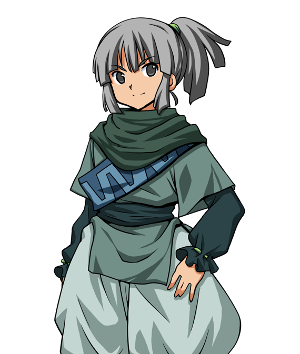
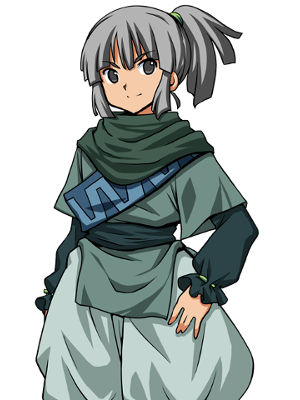
SelectGenderにおいて主人公の画像が出るように改良 yukineco 俊樹のプログラムを勝手にいじくりました 選択したgenderがセーブに反映されるように変更 画像の表示する高さを少し高く調整

diff --git a/src/arcircle/ftsim/state/selectgender/SelectGenderView.java b/src/arcircle/ftsim/state/selectgender/SelectGenderView.java
@@ -17,6 +17,7 @@ public class SelectGenderView implements Renderer {
 	private Image imageMale;
 	private Image imageFemale;
 	private Image flame;
+	private static final String characterPath = "./Stories/Characters";
 
 	public SelectGenderView(SelectGenderModel sgModel, SelectGenderState sgState) {
 		super();
@@ -25,8 +26,8 @@ public class SelectGenderView implements Renderer {
 
 		//稲井が画像ファイルをアップロードしていない？
 		try {
-			imageMale = new Image("./image/genderimage/male.png");
-			imageFemale = new Image("./image/genderimage/female.png");
+			imageMale = new Image(characterPath + "/playerMale/stand.png");
+			imageFemale = new Image(characterPath + "/playerFemale/stand.png");
 			flame = new Image("./image/genderimage/flame.png");
 		} catch (SlickException e) {
 			e.printStackTrace();
@@ -51,22 +52,22 @@ public class SelectGenderView implements Renderer {
 
 		if (sgModel.gender == SelectGenderModel.MALE) {
 			g.drawImage(imageMale, FTSimulationGame.WIDTH / 4
-					- imageGenderWidth / 2, FTSimulationGame.HEIGHT / 3 * 2
+					- imageGenderWidth / 2, FTSimulationGame.HEIGHT / 5 * 3
 					- imageGenderHeight / 2);
 			g.drawImage(imageFemale, FTSimulationGame.WIDTH / 4 * 3
-					- imageGenderWidth / 2, FTSimulationGame.HEIGHT / 3 * 2
+					- imageGenderWidth / 2, FTSimulationGame.HEIGHT / 5 * 3
 					- imageGenderHeight / 2);
 			g.drawImage(flame, FTSimulationGame.WIDTH / 4 - flameWidth / 2,
-					FTSimulationGame.HEIGHT / 3 * 2 - flameHeight / 2);
+					FTSimulationGame.HEIGHT / 5 * 3 - flameHeight / 2);
 		} else if (sgModel.gender == SelectGenderModel.FEMALE) {
 			g.drawImage(imageMale, FTSimulationGame.WIDTH / 4
-					- imageGenderWidth / 2, FTSimulationGame.HEIGHT / 3 * 2
+					- imageGenderWidth / 2, FTSimulationGame.HEIGHT / 5 * 3
 					- imageGenderHeight / 2);
 			g.drawImage(imageFemale, FTSimulationGame.WIDTH / 4 * 3
-					- imageGenderWidth / 2, FTSimulationGame.HEIGHT / 3 * 2
+					- imageGenderWidth / 2, FTSimulationGame.HEIGHT / 5 * 3
 					- imageGenderHeight / 2);
 			g.drawImage(flame, FTSimulationGame.WIDTH / 4 * 3 - flameWidth / 2,
-					FTSimulationGame.HEIGHT / 3 * 2 - flameHeight / 2);
+					FTSimulationGame.HEIGHT / 5 * 3 - flameHeight / 2);
 		}
 
 	}

diff --git a/src/arcircle/ftsim/state/selectgender/SelectGenderModel.java b/src/arcircle/ftsim/state/selectgender/SelectGenderModel.java
@@ -34,6 +34,7 @@ public class SelectGenderModel implements KeyListner {
 		} else if (keyInput.isKeyDown(Input.KEY_RIGHT)) {
 			gender = FEMALE;
 		} else if (keyInput.isKeyDown(Input.KEY_Z)) {
+			FTSimulationGame.save.getPlayer().gender = FEMALE;
 			sgState.nextState();
 		}
 	}
